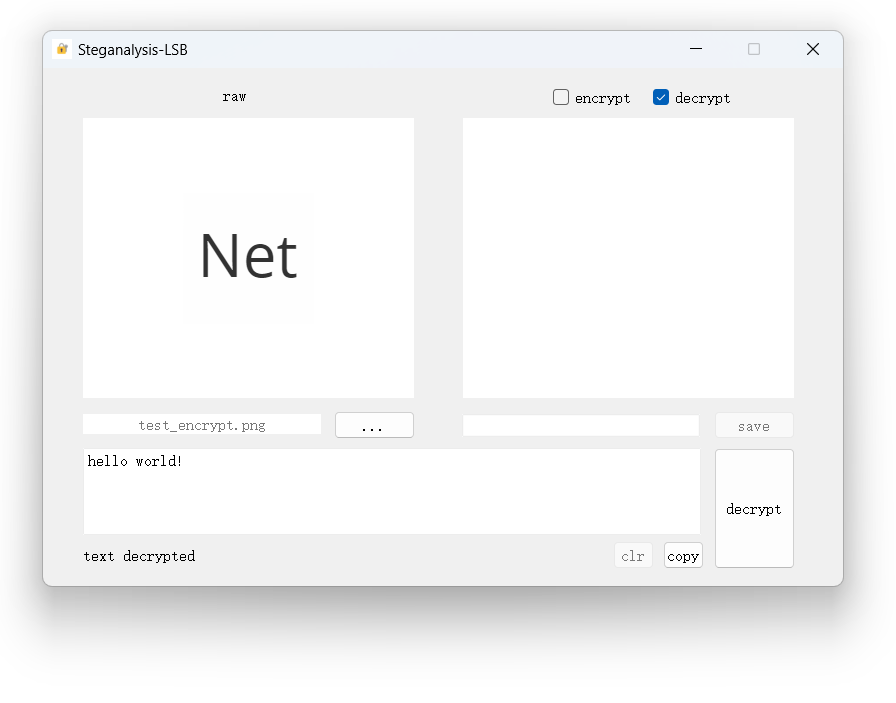
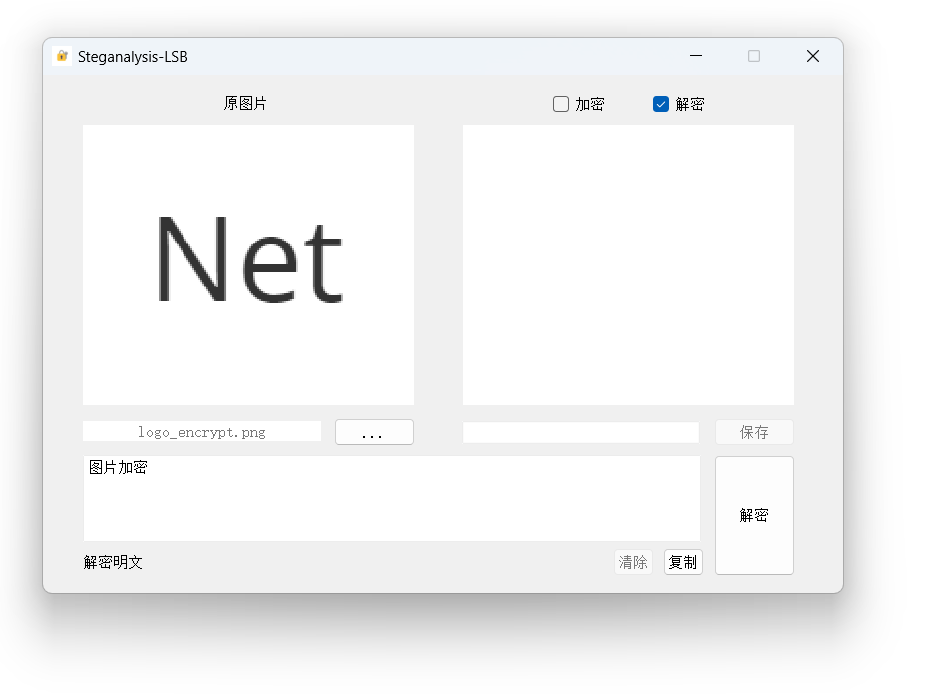
update

diff --git a/ReadMe.md b/ReadMe.md
@@ -2,6 +2,8 @@
 
 通过LSB(least significant bit)算法实现图片隐写，将信息隐藏在像素RGB值的最低一位
 
+- [x] 更新中文界面
+
 ## 使用
 
 界面
